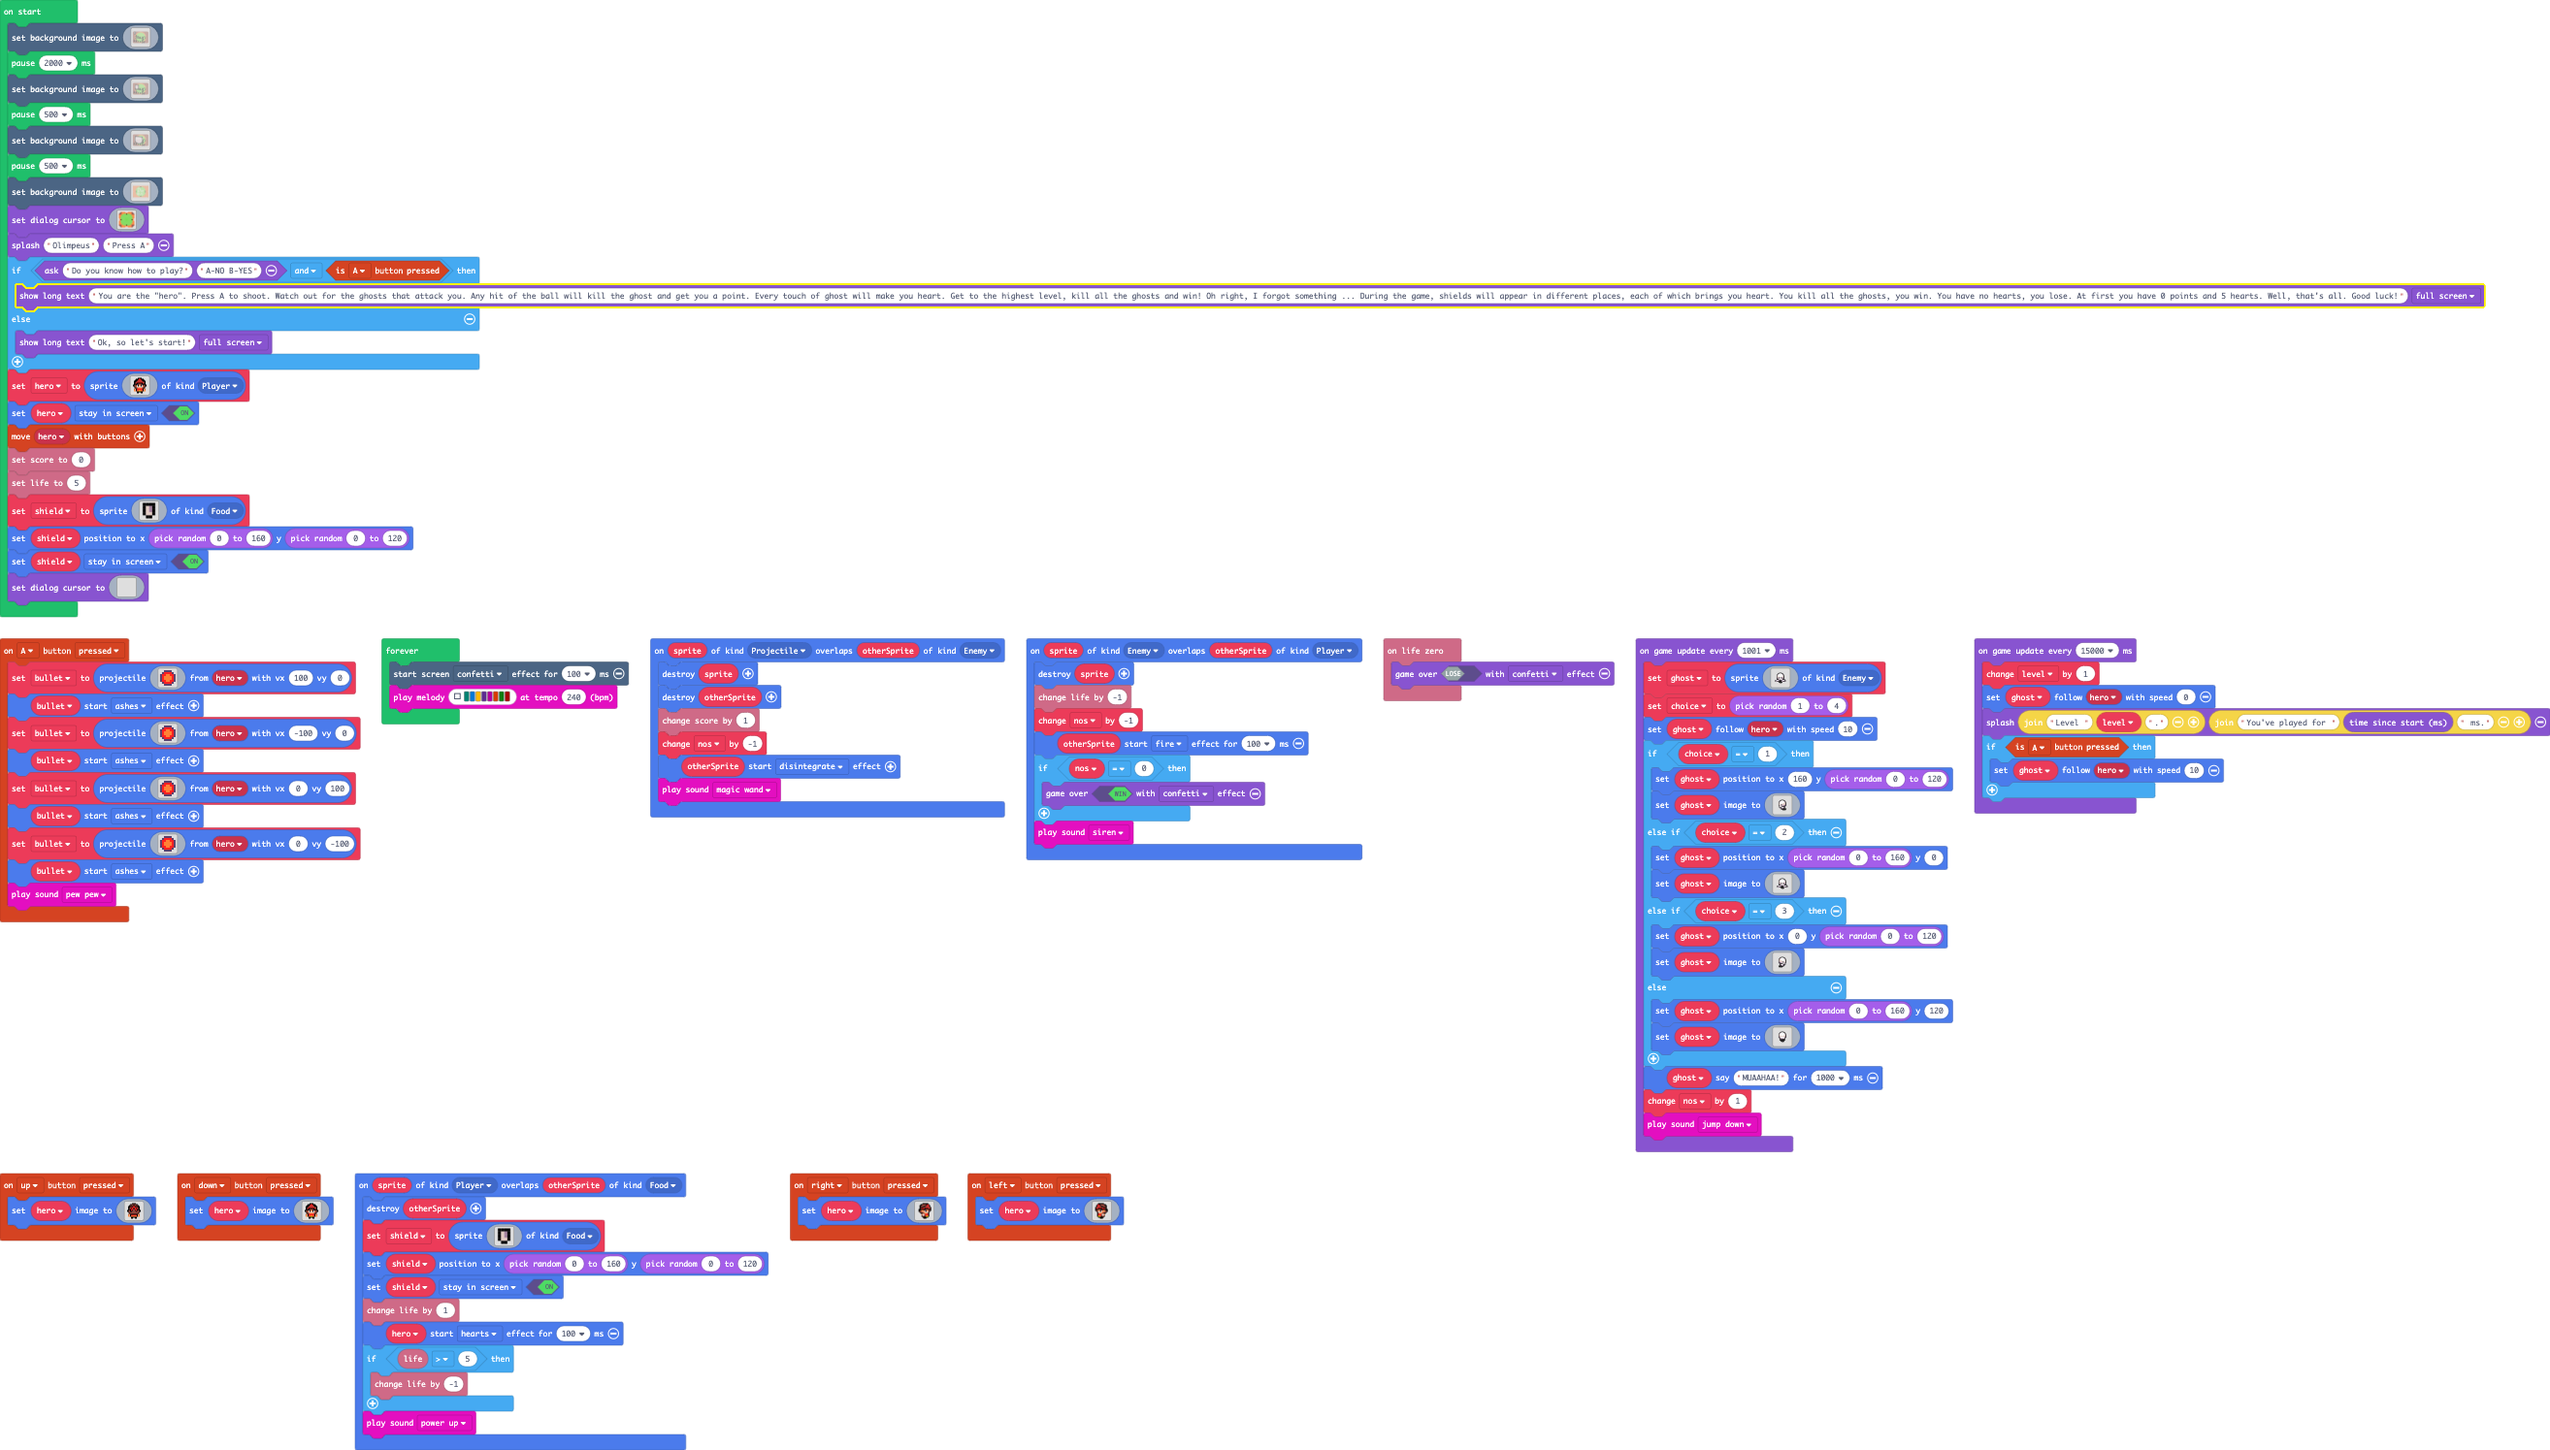
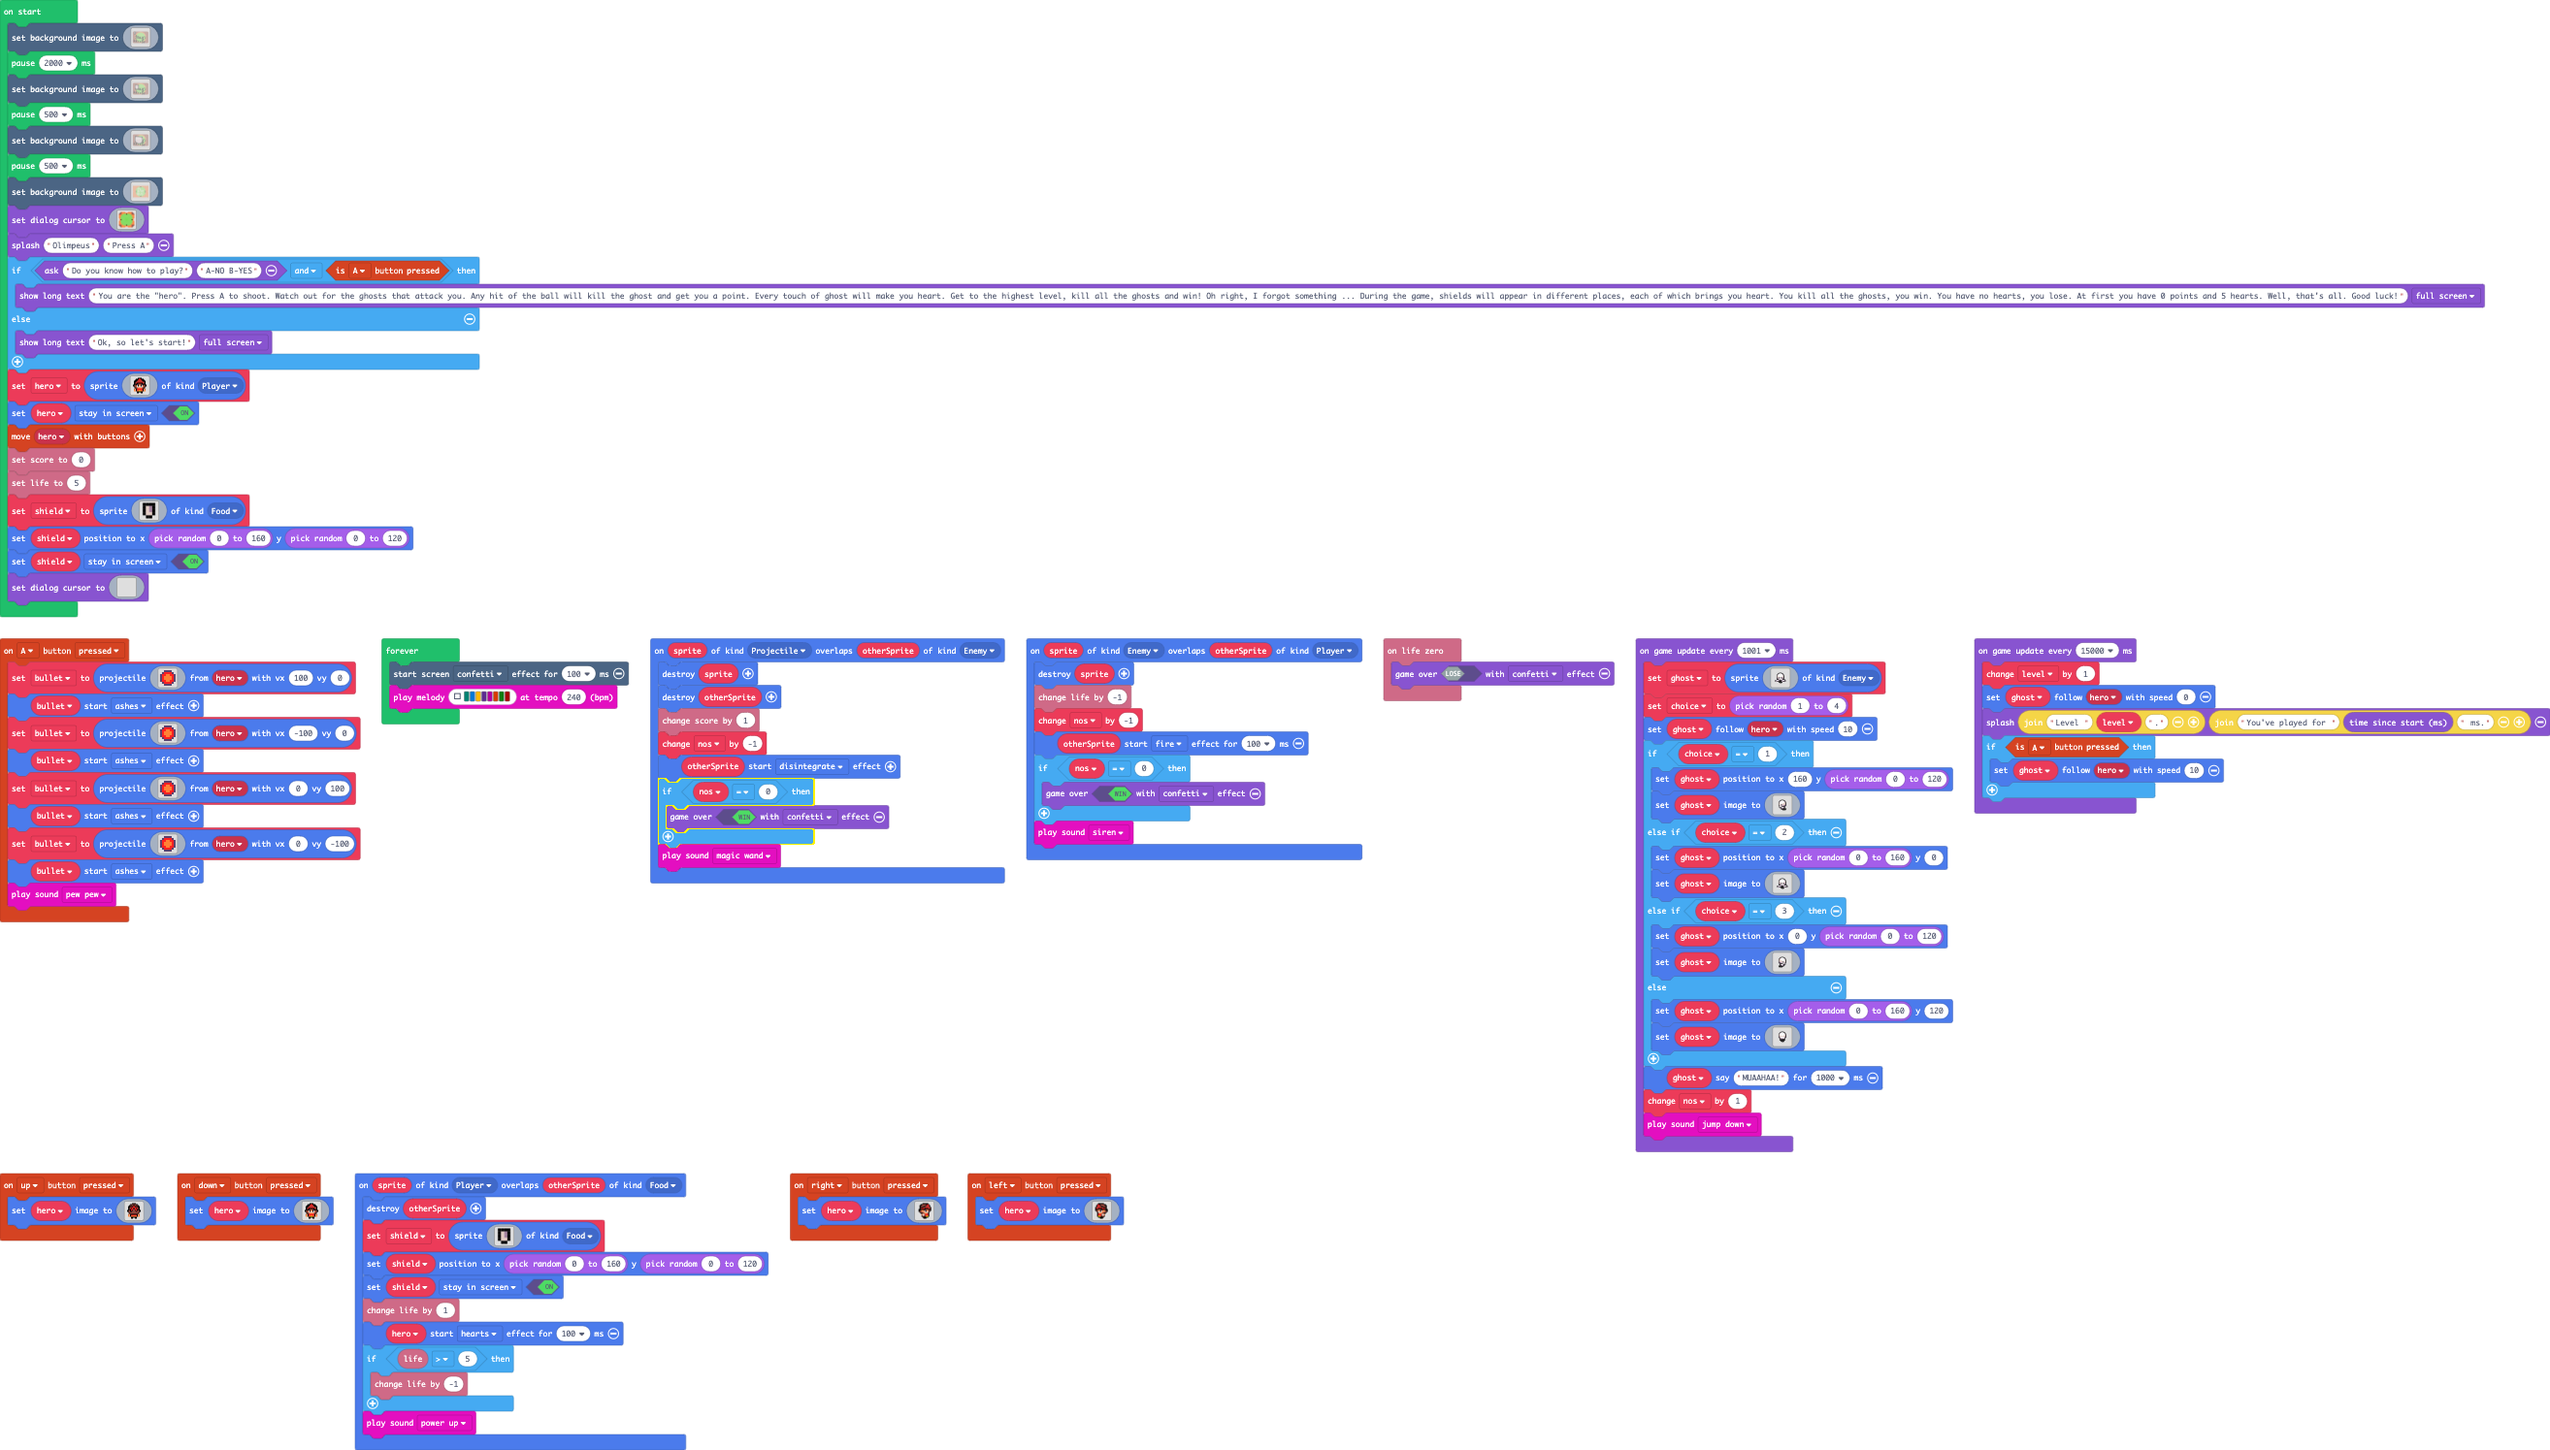
Update main.blocks, main.ts

Changed region(s): [[0.2496, 0.5231, 0.4056, 0.6154]]

diff --git a/main.ts b/main.ts
@@ -72,6 +72,9 @@ sprites.onOverlap(SpriteKind.Projectile, SpriteKind.Enemy, function (sprite, oth
     info.changeScoreBy(1)
     nos += -1
     otherSprite.startEffect(effects.disintegrate)
+    if (nos == 0) {
+        game.over(true, effects.confetti)
+    }
     music.magicWand.play()
 })
 controller.A.onEvent(ControllerButtonEvent.Pressed, function () {
